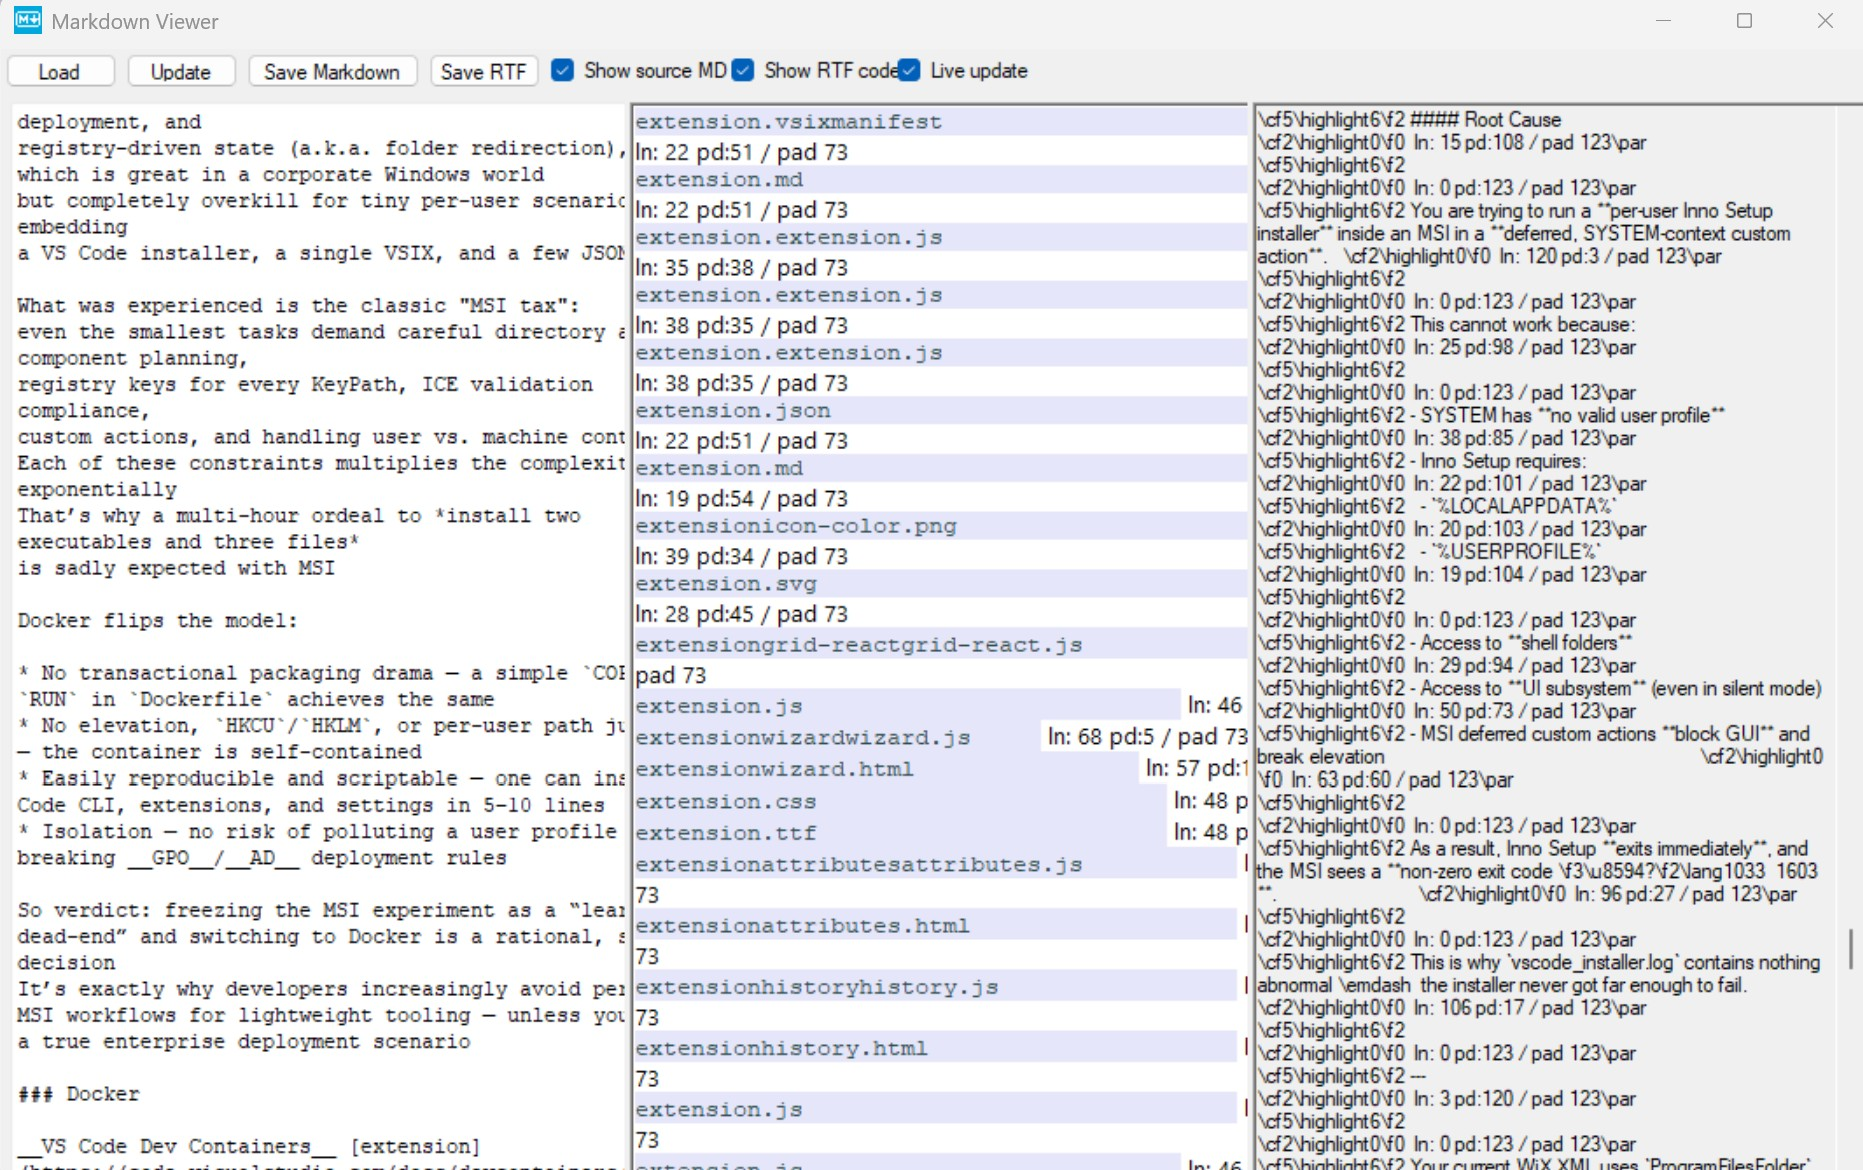
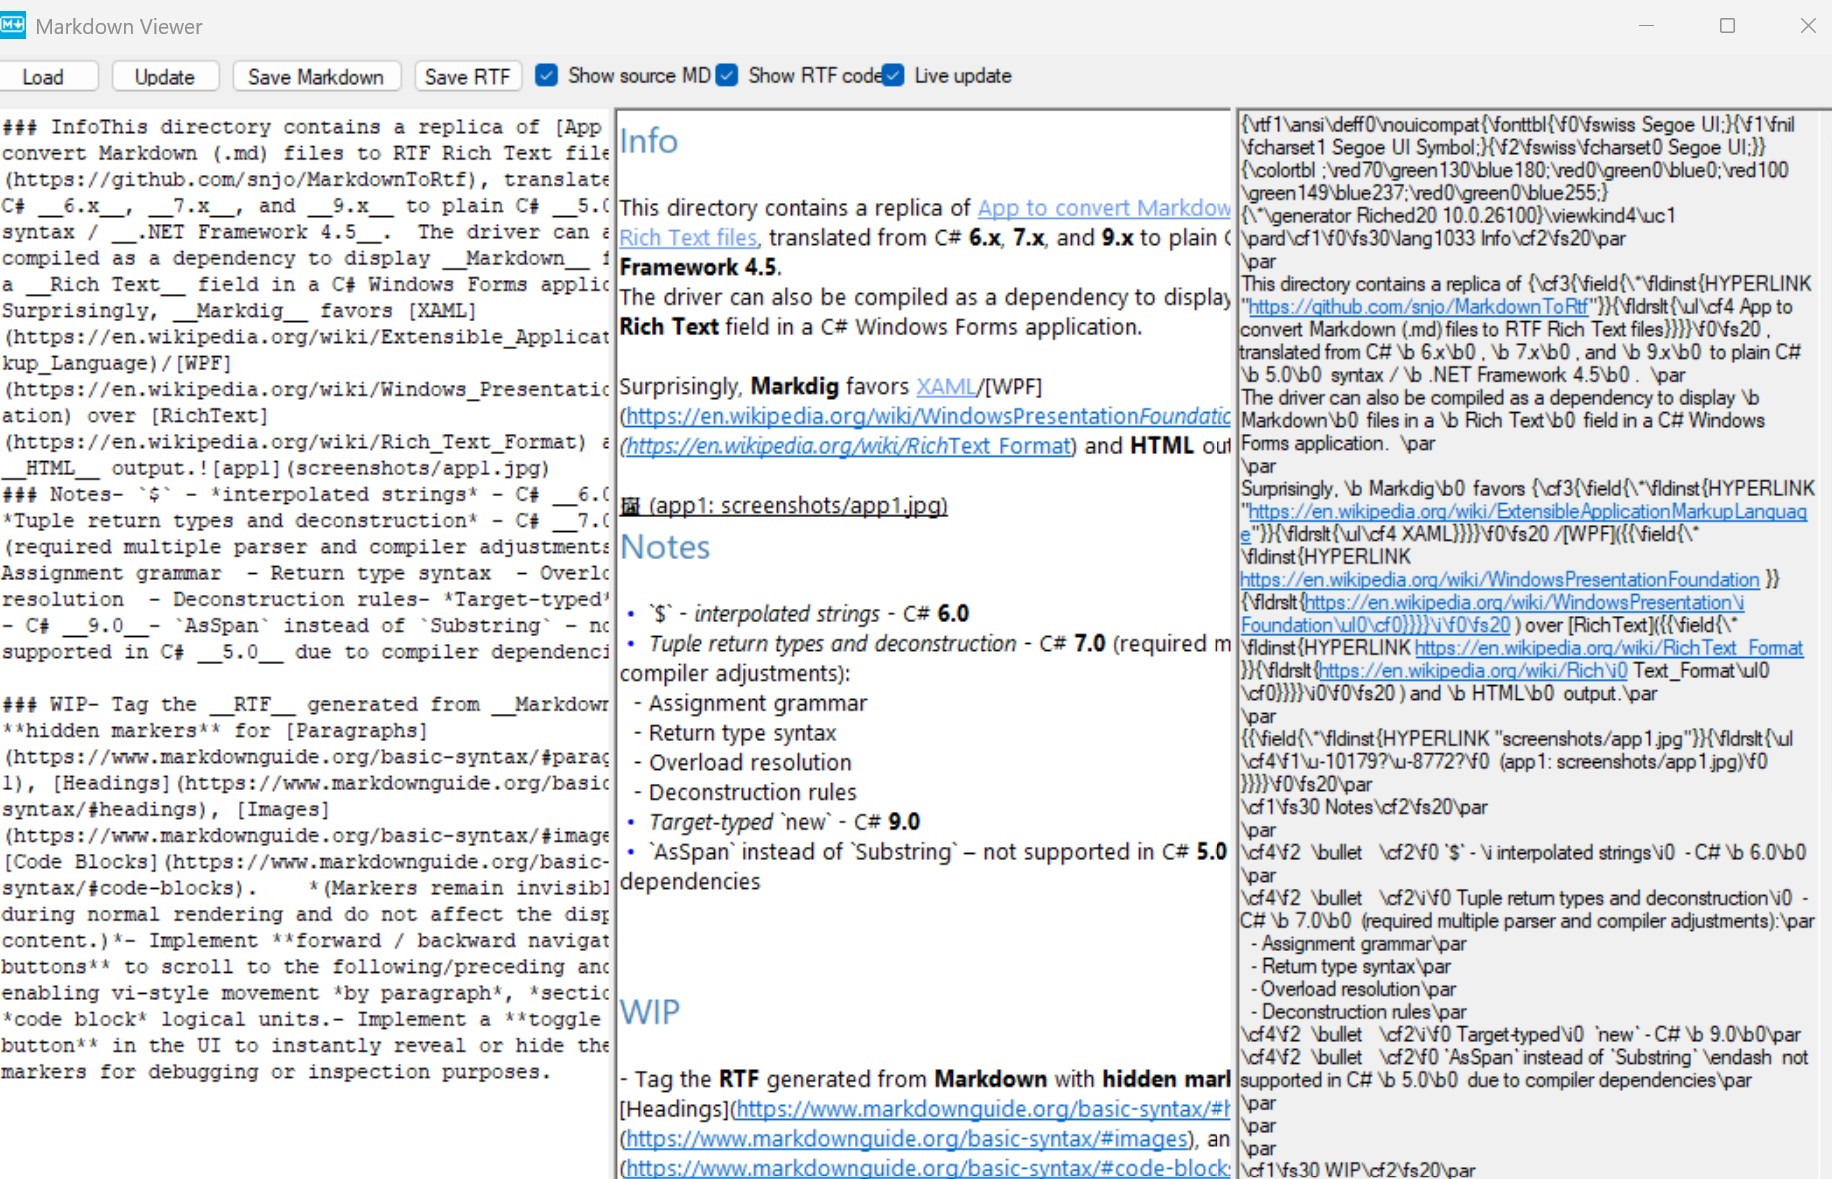
fixed bug with printing debug infomation to RTF stream while rendering the Code Blocks

diff --git a/external/csharp/rtfviewer2/Utils/RtfConverter.cs b/external/csharp/rtfviewer2/Utils/RtfConverter.cs
@@ -203,9 +203,7 @@ namespace Utils {
 			sb.Append("\\highlight0 ");
 			sb.Append(@"\f0 ");
 			sb.Append(UseFontColor(rtfTextColor, "Code Block"));
-
-			sb.Append(String.Format(" ln: {0} pd:{1} / pad {2}", elements, padDiff, padding));
-
+			Debug.WriteLine(String.Format(" ln: {0} pd:{1} / pad {2}", elements, padDiff, padding));
 			sb.AppendLine("\\par ");
 			return sb.ToString();
 		}

diff --git a/external/csharp/rtfviewer2/README.md b/external/csharp/rtfviewer2/README.md
@@ -1,35 +1,61 @@
 ### Info
-this directory contains a replica of [App to convert Markdown (.md) files to RTF Rich text files](https://github.com/snjo/MarkdownToRtf) translated __C#__ __6.x__ 7.x__, __9.x__ to plain __C# 5__ syntax / __.Net Framework__ __4.5__ . Driver can be also compiled as dependency to display __Markdown__ files in a __Rich Text__ field in a C# Windows Forms.
-Surprisingly the __Markdig__ favors [XAML](https://en.wikipedia.org/wiki/Extensible_Application_Markup_Language)/[WPF](https://en.wikipedia.org/wiki/Windows_Presentation_Foundation) to [RichText](https://en.wikipedia.org/wiki/Rich_Text_Format) and __HTML__.
+This directory contains a replica of [App to convert Markdown (.md) files to RTF Rich Text files](https://github.com/snjo/MarkdownToRtf), translated from C# __6.x__, __7.x__, and __9.x__ to plain C# __5.0__ syntax / __.NET Framework 4.5__.  
+The driver can also be compiled as a dependency to display __Markdown__ files in a __Rich Text__ field in a C# Windows Forms application.  
+
+Surprisingly, __Markdig__ favors [XAML](https://en.wikipedia.org/wiki/Extensible_Application_Markup_Language)/[WPF](https://en.wikipedia.org/wiki/Windows_Presentation_Foundation) over [RichText](https://en.wikipedia.org/wiki/Rich_Text_Format) and __HTML__ output.
 
 ![app1](screenshots/app1.jpg)
 
 ### Notes
 
-  * `$` - *interpolated strings* - __C#__ __6.0__
-  * *tuple return types and deconstruction* - __C#__ __7.0 (required a number of serios parser changes):
-
-     + assignment grammar
-     + return type syntax
-     + overload resolution
-     + deconstruction rules
-
-  * *target-typed* `new` - __C#__ __9.0__
-  * `AsSpan` instead of `Substring` - impossible to use on C# __5.0__ due to multiple compiler dependnecies
+- `$` - *interpolated strings* - C# __6.0__
+- *Tuple return types and deconstruction* - C# __7.0__ (required multiple parser and compiler adjustments):
+  - Assignment grammar
+  - Return type syntax
+  - Overload resolution
+  - Deconstruction rules
+- *Target-typed* `new` - C# __9.0__
+- `AsSpan` instead of `Substring` – not supported in C# __5.0__ due to compiler dependencies
 
 ### See Also
 
-   * [RichText Builder (StringBuilder for RTF](https://www.codeproject.com/articles/RichText-Builder-StringBuilder-for-RTF-) expected to be a relatively easy task.
-    * [EXTENDED Version of Extended Rich Text Box (RichTextBoxEx)](https://www.codeproject.com/articles/EXTENDED-Version-of-Extended-Rich-Text-Box-RichTex#comments-section) - `RichTextBoxEx`, which adds to `RichTextBox` features a toolbar and ruler, allows elaborate end-user-initiated functionality in a single WinForms control
+- [RichText Builder (StringBuilder for RTF)](https://www.codeproject.com/articles/RichText-Builder-StringBuilder-for-RTF-) – relatively easy to implement.
+- [Extended RichTextBox (RichTextBoxEx)](https://www.codeproject.com/articles/EXTENDED-Version-of-Extended-Rich-Text-Box-RichTex#comments-section) – adds toolbar, ruler, and extended functionality to a standard WinForms `RichTextBox`.
+- [MarkdownToRtf](https://github.com/ReneeHuh/MarkdownToRtf) – static utility converting __Markdown__ to __RTF__ using [Markdig](https://github.com/xoofx/markdig) parser via [NuGet](https://www.nuget.org/packages/Markdig/). Generates WordPad-compatible RTF with proper headers, font tables, and formatting codes. Supports headings, paragraphs, lists, tables, code blocks, emphasis, and hyperlinks.
+- [GustavoHennig/MarkdownToRtf](https://github.com/GustavoHennig/MarkdownToRtf) – basic Markdown to RTF converter.
+- [Avalon Renderer](https://github.com/Kryptos-FR/markdig.wpf) – WPF renderer using [Markdig](https://github.com/xoofx/markdig).
+- [Markdown Basic Syntax](https://www.markdownguide.org/basic-syntax/)
+- [RTF Spec](https://latex2rtf.sourceforge.net/RTF-Spec-1.2.pdf) – the original published specification was developed by __Microsoft Corporation__ in __1987__.
+- [The RTF Cookbook](https://metacpan.org/dist/RTF-Writer/view/lib/RTF/Cookbook.pod) – note: not a Perl module
 
-  * [MarkdownToRtf](https://github.com/ReneeHuh/MarkdownToRtf)  a static utility that converts __Markdown__ to __RTF__ using [Markdig](https://github.com/xoofx/markdig) parser [Nuget](https://www.nuget.org/packages/Markdig/) dependency - generates WordPad-compatible RTF with proper headers, font tables, and formatting codes. Supports headings, paragraphs, lists, tables, code blocks, emphasis, and hyperlinks
+### WIP
 
-  * [GustavoHennig/MarkdownToRtf](https://github.com/GustavoHennig/MarkdownToRtf) - Net basic markdown to RTF converter
+- Tag the __RTF__ generated from __Markdown__ with **hidden markers** for [Paragraphs](https://www.markdownguide.org/basic-syntax/#paragraphs-1), [Headings](https://www.markdownguide.org/basic-syntax/#headings), [Images](https://www.markdownguide.org/basic-syntax/#images), and [Code Blocks](https://www.markdownguide.org/basic-syntax/#code-blocks).  
+  *(Markers remain invisible during normal rendering and do not affect the displayed content.)*
+- Implement **forward / backward navigation buttons** to scroll to the following/preceding anchor, enabling vi-style movement *by paragraph*, *section*, or *code block* logical units.
+- Implement a **toggle button** in the UI to instantly reveal or hide the markers for debugging or inspection purposes.
 
-   * [Avalon Renderer](https://github.com/Kryptos-FR/markdig.wpf) of [Markdig](https://github.com/xoofx/markdig)
+#### Example
+
+- Fragment *without* markers:
+```rtf
+{\rtf1\ansi\deff0
+{\fonttbl{\f0\fswiss\fcharset0 Arial;}}
+\pard\sa200\sl276\slmult1\f0\fs24
+This is visible text. This is also visible text.
+}
+```
+
+-- Same fragment *with* **hidden marker**:
+The hidden text will not be displayed; visually, it renders identically.
+```rtf
+{\rtf1\ansi\deff0
+{\fonttbl{\f0\fswiss\fcharset0 Arial;}}
+\pard\sa200\sl276\slmult1\f0\fs24
+This is visible text. {\v This text is hidden.} This is also visible text.
+}
+```
 
 ### Author
 
-
 [Serguei Kouzmine](mailto:kouzmine_serguei@yahoo.com)
-
